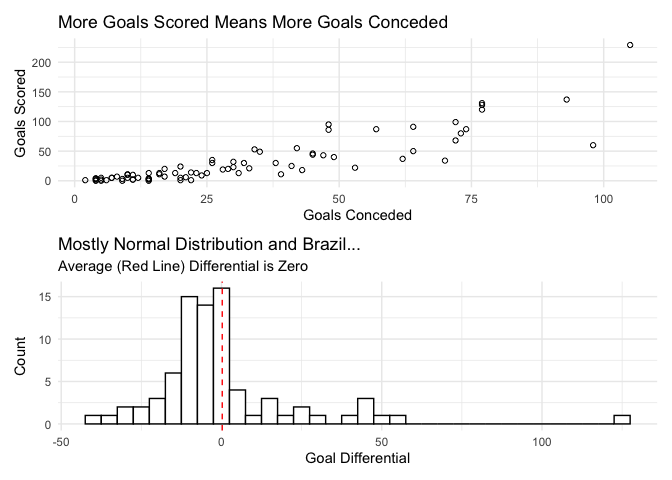
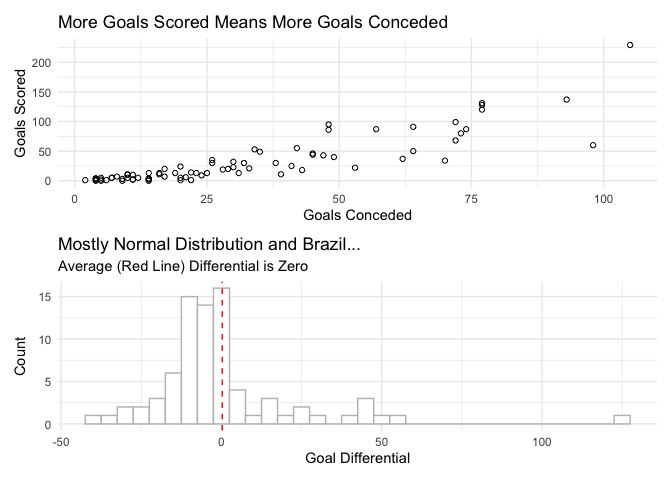
Wrap up EDA for the wc_matches data

Changed region(s): [[0.125, 0.5938, 0.9375, 0.9062], [0.25, 0.75, 0.2812, 0.7812]]

diff --git a/notebooks/world_cup.md b/notebooks/world_cup.md
@@ -213,7 +213,6 @@ guide our analysis:
     wins/losses/draws on a certain day of the week?
 6.  Does being home or away have any impact on the outcome of the game?
 7.  Do we see a difference in the amount of goals scored year to year?
-    Or even day to day?
 
 For now, I think that list of questions should be enough to get us
 started : )
@@ -256,27 +255,13 @@ wc_draws_away <- wc_matches %>%
 
 # We then have to merge the two draws and add the results:
 wc_draws <- inner_join(x = wc_draws_home, y = wc_draws_away)
-```
-
-    ## Joining, by = "team"
-
-``` r
 wc_draws$draws <- wc_draws$draws_away + wc_draws$draws_home
 wc_draws <- wc_draws[c("team", "draws")]
 
 # We can then merge all the objects together
 wc_results <- inner_join(wc_wins, wc_losses)
-```
-
-    ## Joining, by = "team"
-
-``` r
 wc_results <- inner_join(wc_results, wc_draws)
-```
 
-    ## Joining, by = "team"
-
-``` r
 # Then create a final column which adds up all the games played
 wc_results$games <- rowSums(wc_results[c("wins", "losses", "draws")])
 ```
@@ -297,7 +282,7 @@ graph_results <- function(df, x, y) {
     aes(x=reorder(!!x, -!!y), y=!!y) + 
     geom_bar(
       stat = 'identity',
-      color = 'black',
+      color = 'gray',
       fill = 'white') + 
     labs(
       x = x,
@@ -329,7 +314,7 @@ wc_results %>%
   aes(x = reorder(team, -win_pct), y = win_pct) + 
   geom_bar(
     stat = 'identity',
-    color = 'black',
+    color = 'gray',
     fill = 'white') + 
   labs(title = 'Brazil is still at the top!',
        subtitle = 'Top 10 Countries with Highest Winning Percentage',
@@ -457,7 +442,7 @@ goal_differential <- goals %>%
   aes(x=differential) + 
   geom_histogram(
     binwidth=5,
-    color="black",
+    color="gray",
     fill="white") + 
   geom_vline(
     xintercept=mean(goals$differential),
@@ -474,9 +459,7 @@ scored_v_conceded / goal_differential
 
 ![](world_cup_files/figure-gfm/goals-1.png)<!-- -->
 
-### 4. How many matches have required extra time? If so, how many have required
-
-penalties?
+### 4. How many matches have required extra time? If so, how many have required penalties?
 
 Answering this question is a bit tricky. Unfortunately, since we do not
 know which games were group stage games vs. knock-out games, we cannot
@@ -529,3 +512,153 @@ If we could extract the number of games eligible for extra time
 this’ll do.
 
 ### 5. Do scores vary across days of the week?
+
+This is quite a simple question to answer since we can simply group
+together the days of the week and total the number of goals for both
+home and away teams… so let’s do it!
+
+``` r
+# Re-order the days of wek
+wc_matches$dayofweek <- factor(wc_matches$dayofweek, levels = c("Monday", "Tuesday", "Wednesday", "Thursday", "Friday", "Saturday", "Sunday"))
+
+# Grouping operation to get the total number of goals and games 
+wc_goals_by_day <- wc_matches %>%
+  group_by(dayofweek) %>%
+  summarize(
+    count_games = n(),
+    goals_away = sum(away_score),
+    goals_home = sum(home_score)
+  ) %>%
+  mutate(
+    goals = goals_away + goals_home,
+    goals_per_game = goals / count_games) %>%
+  select(
+    dayofweek,
+    count_games,
+    goals, 
+    goals_per_game
+  )
+
+# Apply and view ordering
+wc_goals_by_day <- wc_goals_by_day[order(wc_goals_by_day$dayofweek), ]
+wc_goals_by_day
+```
+
+    ## # A tibble: 7 × 4
+    ##   dayofweek count_games goals goals_per_game
+    ##   <fct>           <int> <dbl>          <dbl>
+    ## 1 Monday             82   209           2.55
+    ## 2 Tuesday           119   321           2.70
+    ## 3 Wednesday         148   417           2.82
+    ## 4 Thursday          111   289           2.60
+    ## 5 Friday             92   214           2.33
+    ## 6 Saturday          152   426           2.80
+    ## 7 Sunday            196   672           3.43
+
+From the grouped table above, we cna see that `Sunday` is the best day
+if you want to see a high-scoring match. Let’s visualize this data as
+well without having to group this data.
+
+``` r
+wc_matches %>%
+  mutate(
+    total_goals = away_score + home_score
+  ) %>%
+  ggplot() +
+  aes(x=dayofweek, y=total_goals) + 
+  geom_boxplot() + 
+  labs(
+    title = "Weekends have the most action!",
+    x = "Day of Week",
+    y = "Goals"
+  )
+```
+
+![](world_cup_files/figure-gfm/goals-boxplot-1.png)<!-- -->
+
+If you want to see a high-scoring game, you are most likely to see that
+on the weekend. However, the next best option seems to be hump day!
+
+### 6. Does being home or away have any impact on the outcome of the game?
+
+This again, is quite a simple operation that we can accomplish with a
+quick grouping operation:
+
+``` r
+wc_matches %>%
+  group_by(outcome) %>%
+  summarize(wins = n())
+```
+
+    ## # A tibble: 3 × 2
+    ##   outcome  wins
+    ##   <chr>   <int>
+    ## 1 A         302
+    ## 2 D         169
+    ## 3 H         429
+
+So, there is a slight home-field advantage, but again nothing
+significant here. Again, `home` and `away` really doesn’t have much
+significance in the world cup since you are typically not playing at
+your real `home`.
+
+### 7. Do we see a difference in the amount of goals scored year to year?
+
+This is quite a fun statistic. What world cup was the highest scoring
+one and which one had the highest goals per game?
+
+``` r
+wc_goals_by_year <-wc_matches %>%
+  group_by(year) %>%
+  summarize(
+    games = n(),
+    goals_away = sum(away_score),
+    goals_home = sum(home_score)
+  ) %>%
+  mutate(
+    goals = goals_away + goals_home,
+    goals_per_game = goals / games
+  ) %>%
+  select(
+    year,
+    games,
+    goals,
+    goals_per_game
+  )
+
+goals_games_by_year <- wc_goals_by_year %>%
+  ggplot(aes(year)) + 
+  geom_line(aes(y = goals, colour = "Goals")) + 
+  geom_point(aes(y = goals, colour = "Goals")) + 
+  geom_line(aes(y = games, colour = "Games")) + 
+  geom_point(aes(y = games, colour = "Games")) + 
+  labs(
+    title = "A lot fewer games were played in the past",
+    x = "Year",
+    y = "Goals"
+  )
+
+goals_per_game_by_year <- wc_goals_by_year %>%
+  ggplot() + 
+  aes(x = year, y = goals_per_game) + 
+  geom_bar(
+    stat = "identity",
+    fill = "white",
+    color = "gray"
+  ) + 
+  labs(
+    title = "1954 was a goal bonanza!",
+    x = "Year",
+    y = "Goals Per Year"
+  )
+
+goals_games_by_year / goals_per_game_by_year
+```
+
+![](world_cup_files/figure-gfm/goals-per-year-1.png)<!-- -->
+
+The most notable feature from above is the huge amount of goals that
+were scored in the 1954 world cup. An average of roughly 5 goals were
+scored a game! Obviously, we have to consider that there were much fewer
+matches played but one cannot deny that it was definitely a world cup
+worth watching!
